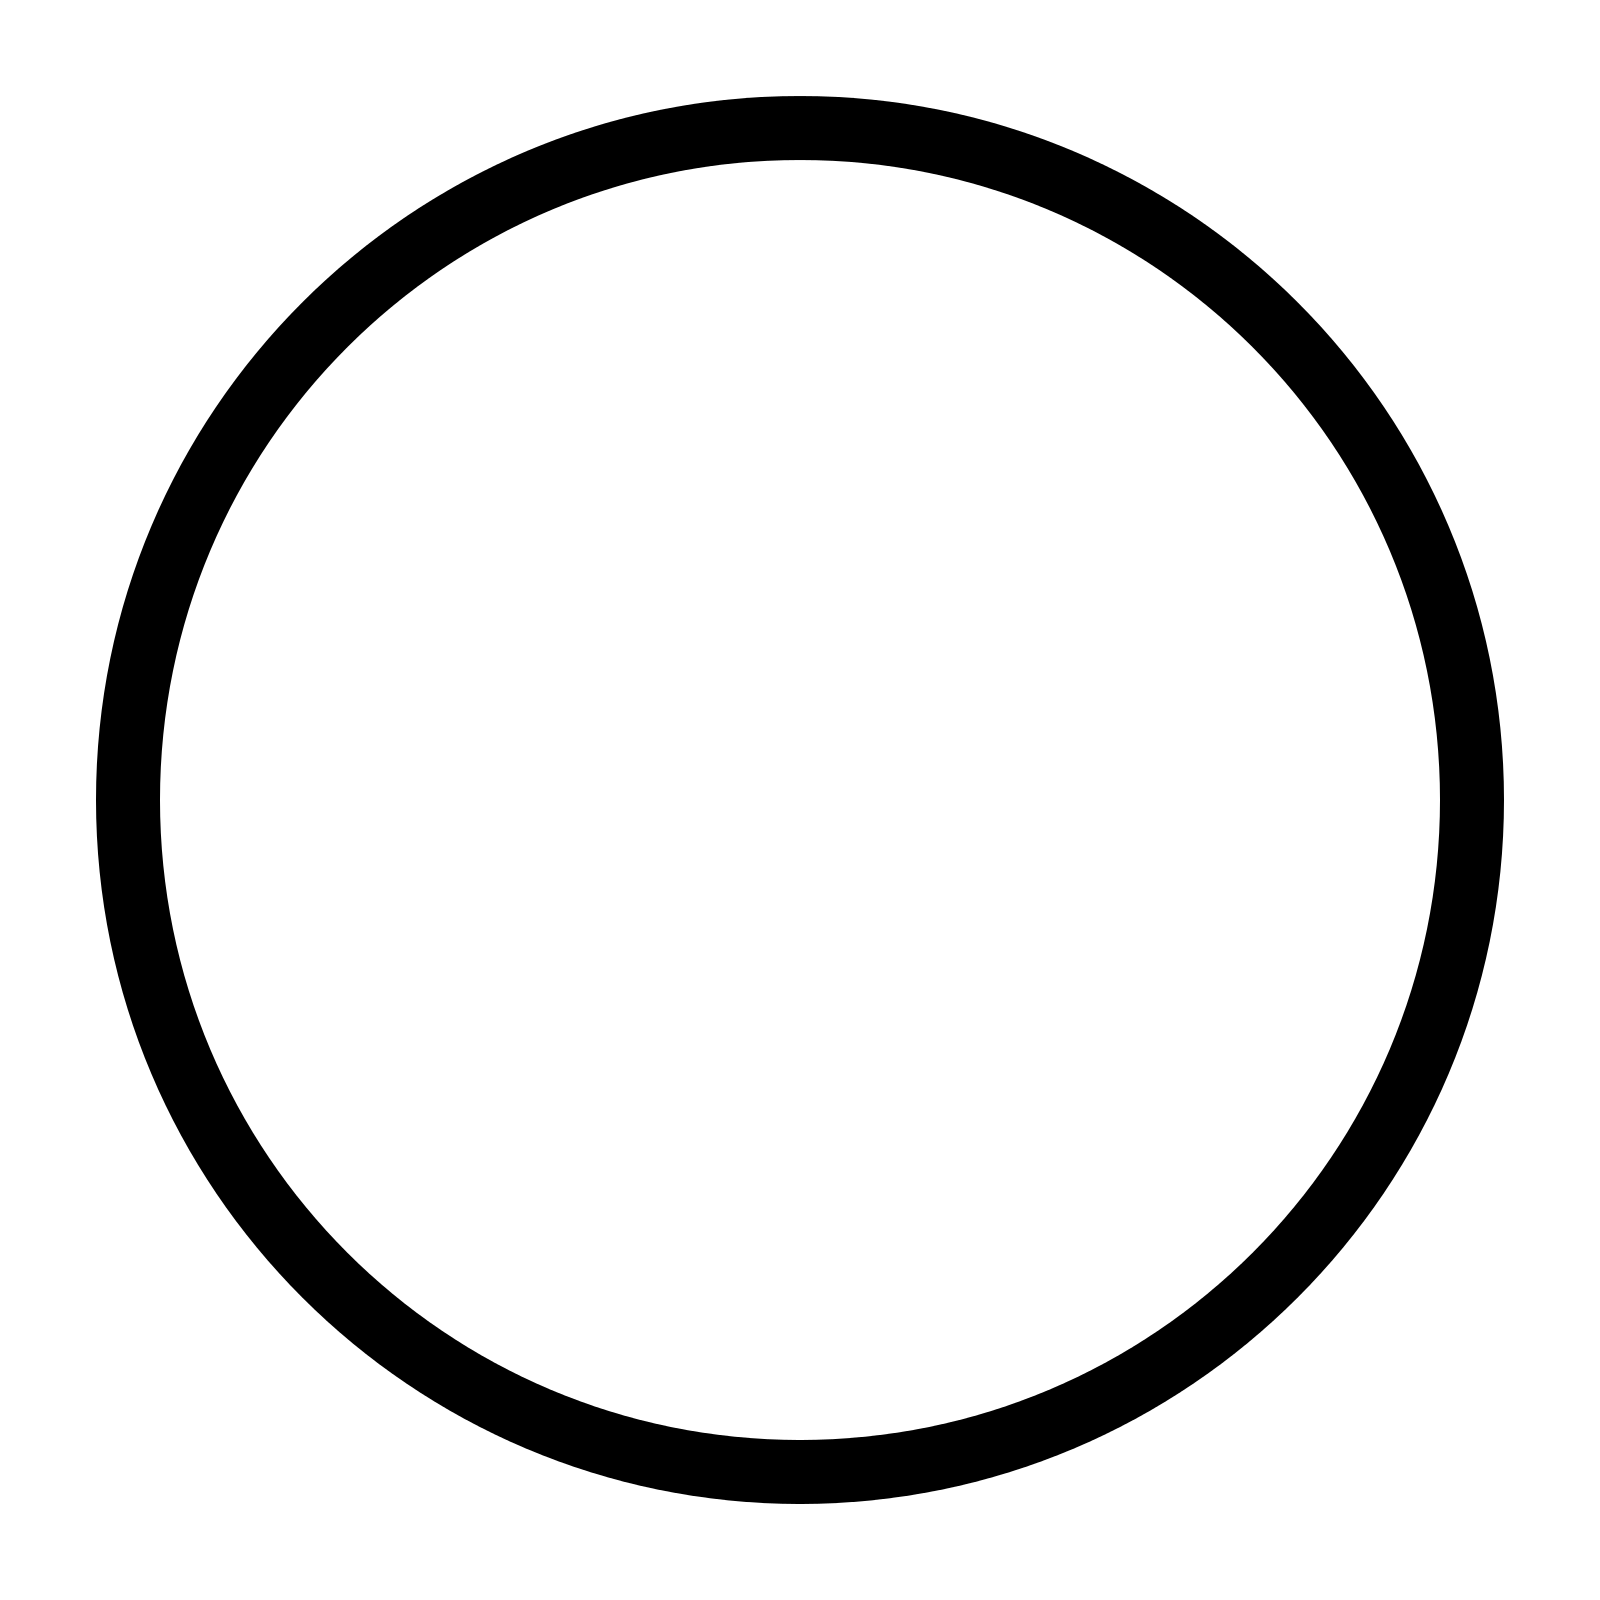
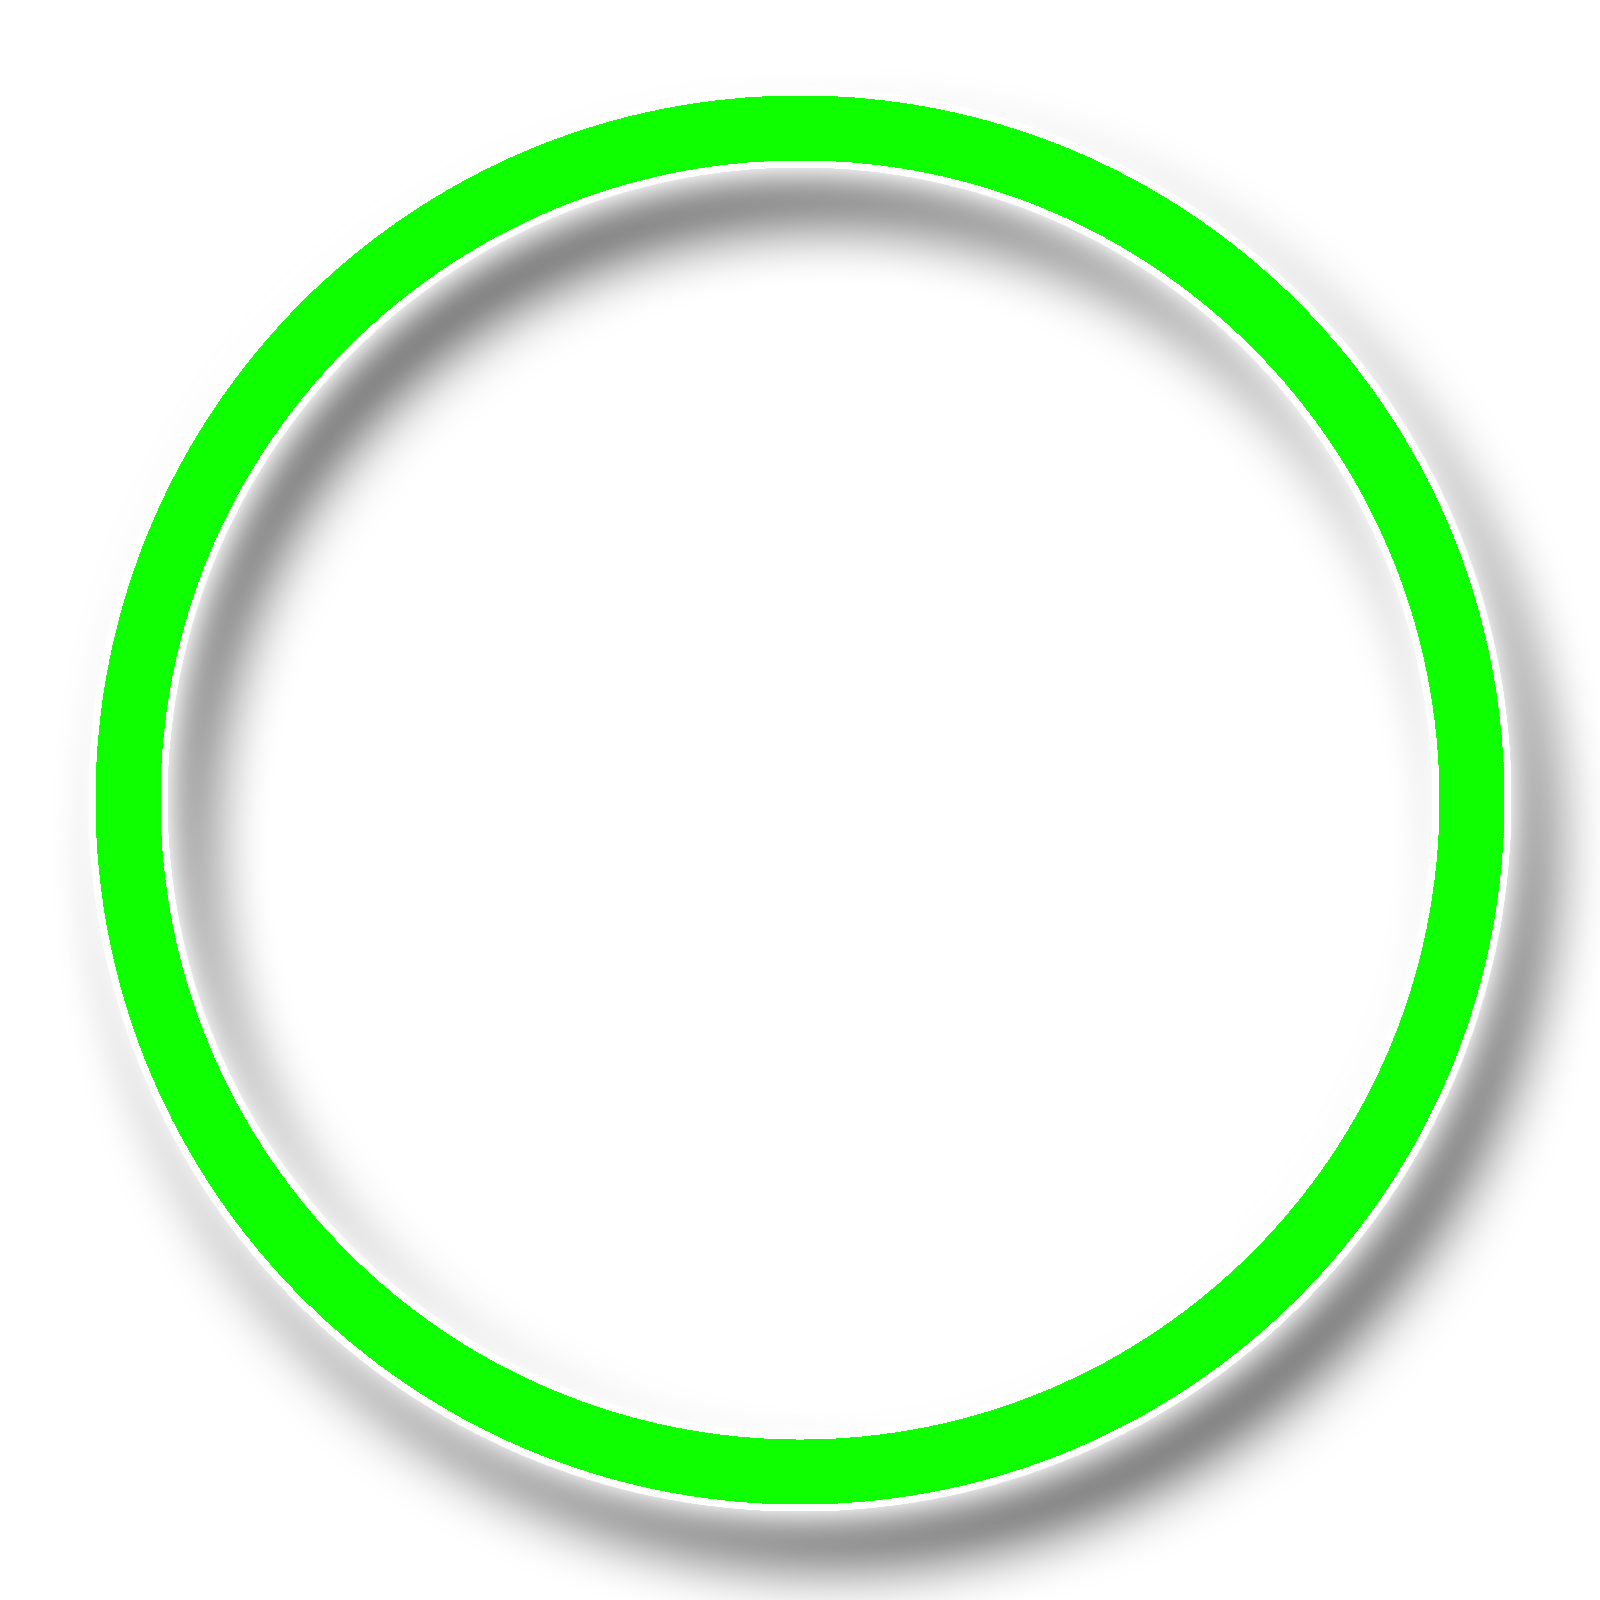
Added animations and better visuals

Changed region(s): [[0.0625, 0.0625, 1.0, 1.0]]

diff --git a/flutter_application_1/lib/differences_game.dart b/flutter_application_1/lib/differences_game.dart
@@ -3,23 +3,35 @@ import 'dart:ui';
 import 'package:flame/components.dart';
 import 'package:flame/events.dart';
 import 'package:flame/game.dart';
+import 'package:flutter_application_1/heart.dart';
+import 'package:flutter_application_1/vignette_overlay.dart';
 import 'constants.dart';
 import 'overlay_circle.dart';
 
 class DifferencesGame extends FlameGame with TapDetector {
+  //images
   late SpriteComponent topImage;
   late SpriteComponent bottomImage;
+
+  late VignetteOverlay vignetteOverlay;
+
+  //difference areas
   List<Rect> differenceAreas = [];
-  List<SpriteComponent> circleOverlaysTop = []; // first image
-  List<SpriteComponent> circleOverlaysBottom = []; //second image
+  List<OverlayCircle> circleOverlaysTop = []; // first image
+  List<OverlayCircle> circleOverlaysBottom = []; //second image
   int remainingDifferences = 0;
-  int lives = 3;
+
+  // lives
+  int lives = startingLives;
+  List<Heart> hearts = [];
 
   @override
   Future<void> onLoad() async {
     final spriteTop = await Sprite.load(image1Path);
     final spriteBottom = await Sprite.load(image2Path);
     final circleSprite = await Sprite.load(circleImagePath);
+    final vignette = await Sprite.load(vignetteImagePath);
+    final heartSprite = await Sprite.load(heartImagePath);
 
     final screenWidth = size.x;
     final screenHeight = size.y;
@@ -30,6 +42,12 @@ class DifferencesGame extends FlameGame with TapDetector {
     final double totalHeight = (imageHeight * 2) + size.x * spaceBetweenImages;
 
     final double startingY = (screenHeight - totalHeight) / 2;
+
+    vignetteOverlay = VignetteOverlay(
+      vignette,
+      Vector2.zero(),
+      size,
+    );
 
     topImage = SpriteComponent(
       sprite: spriteTop,
@@ -47,26 +65,13 @@ class DifferencesGame extends FlameGame with TapDetector {
       size: Vector2(imageWidth, imageHeight),
     );
 
+    add(vignetteOverlay);
     add(topImage);
     add(bottomImage);
 
     initDifferenceAreas(size.x, imageHeight);
     addCircleOverlays(circleSprite, imageHeight, startingY);
-  }
-
-  @override
-  bool onTapDown(TapDownInfo info) {
-    final tapPos = info.eventPosition.widget;
-
-    for (int i = 0; i < circleOverlaysTop.length; i++) {
-      if (circleOverlaysTop[i].toRect().contains(tapPos.toOffset()) ||
-          circleOverlaysBottom[i].toRect().contains(tapPos.toOffset())) {
-        circleOverlaysTop[i].opacity = 1.0;
-        circleOverlaysBottom[i].opacity = 1.0;
-        break;
-      }
-    }
-    return true;
+    addHearts(heartSprite);
   }
 
   void initDifferenceAreas(double imageWidth, double imageHeight) {
@@ -79,20 +84,41 @@ class DifferencesGame extends FlameGame with TapDetector {
     remainingDifferences = differenceAreas.length;
   }
 
+  void addHearts(Sprite heartSprite) {
+    for (int i = 0; i < startingLives; i++) {
+      final heart = Heart(
+        heartSprite,
+        Vector2((size.x * heartsRatioToScreenWidth),
+            (size.x * heartsRatioToScreenWidth)),
+        Vector2(
+            i *
+                    (size.x * heartsRatioToScreenWidth +
+                        additionalPixelOffsetHearts) +
+                size.x * ratioOffsetHeartsScreenWidth,
+            size.y *
+                ratioOffsetHeartsScreenHeight), //equation is the gap between each heart
+      );
+
+      heart.setColor(const Color(0xFFFF0000)); // Initial color set to red
+      hearts.add(heart);
+      add(heart);
+    }
+  }
+
   void addCircleOverlays(
       Sprite circleSprite, double imageHeight, double startingY) {
     for (var area in differenceAreas) {
       final circleTop = OverlayCircle(
         circleSprite,
         Vector2(area.left, area.top + startingY),
-        Vector2(min(area.width, area.height), min(area.width, area.height)),
+        Vector2(max(area.width, area.height), max(area.width, area.height)),
       );
 
       final circleBottom = OverlayCircle(
         circleSprite,
         Vector2(area.left,
             area.top + imageHeight + startingY + size.x * spaceBetweenImages),
-        Vector2(min(area.width, area.height), min(area.width, area.height)),
+        Vector2(max(area.width, area.height), max(area.width, area.height)),
       );
 
       circleTop.opacity = 0;
@@ -106,7 +132,66 @@ class DifferencesGame extends FlameGame with TapDetector {
     }
   }
 
+  @override
+  bool onTapDown(TapDownInfo info) {
+    final tapPos = info.eventPosition.widget;
+
+    bool foundDifference = false;
+
+    for (int i = 0; i < circleOverlaysTop.length; i++) {
+      if (circleOverlaysTop[i].toRect().contains(tapPos.toOffset()) ||
+          circleOverlaysBottom[i].toRect().contains(tapPos.toOffset())) {
+        circleOverlaysTop[i].opacity = 1.0;
+        circleOverlaysBottom[i].opacity = 1.0;
+
+        circleOverlaysTop[i].scaleUp();
+        circleOverlaysBottom[i].scaleUp();
+
+        foundDifference = true;
+        break;
+      }
+    }
+
+    if (foundDifference) {
+    } else {
+      onWrongTap();
+    }
+
+    return true;
+  }
+
   void onDifferenceSpotted(Rect spottedArea) {}
 
-  void onWrongTap() {}
+  void onWrongTap() {
+    if (lives > 0) {
+      lives--;
+      updateHearts();
+    }
+
+    if (lives <= 0) {
+      print("Game Over");
+      // Implement your game-over logic here
+    }
+  }
+
+  void updateHearts() {
+    if (lives >= 0 && lives < hearts.length) {
+      hearts[lives].darken();
+    }
+  }
+
+  @override
+  void render(Canvas canvas) {
+    // Draw background
+    canvas.drawRect(
+      Rect.fromPoints(
+        const Offset(0, 0),
+        Offset(size.x, size.y),
+      ),
+      Paint()..color = backgroundColor, // Set your desired color here
+    );
+
+    // Don't forget to call super.render()
+    super.render(canvas);
+  }
 }

diff --git a/flutter_application_1/lib/heart.dart b/flutter_application_1/lib/heart.dart
@@ -1,0 +1,44 @@
+import 'dart:math';
+import 'dart:ui';
+
+import 'package:flame/components.dart';
+import 'package:flame/effects.dart';
+
+class Heart extends SpriteComponent {
+  Heart(Sprite sprite, Vector2 size, Vector2 position)
+      : super(
+            sprite: sprite,
+            position: position,
+            size: size,
+            anchor: Anchor.center);
+
+  void darken() {
+    SequenceEffect scaleEffect = SequenceEffect([
+      ScaleEffect.to(Vector2.all(1.1), EffectController(duration: 0.1)),
+      ScaleEffect.to(Vector2.all(1), EffectController(duration: 0.1))
+    ]);
+    SequenceEffect colorEffect = SequenceEffect([
+      ColorEffect(
+        const Color.fromARGB(255, 129, 0, 0),
+        const Offset(0.0, 1),
+        EffectController(duration: 0.1),
+      ),
+      ColorEffect(
+        const Color.fromARGB(255, 114, 114, 114),
+        const Offset(0.0, 1),
+        EffectController(duration: 0.1),
+      )
+    ]);
+
+    SequenceEffect rotateEffect = SequenceEffect([
+      RotateEffect.to(7 * pi / 180, EffectController(duration: 0.05)),
+      RotateEffect.to(-4 * pi / 180, EffectController(duration: 0.05)),
+      RotateEffect.to(2 * pi / 180, EffectController(duration: 0.05)),
+      RotateEffect.to(0, EffectController(duration: 0.05))
+    ]);
+
+    add(scaleEffect);
+    add(colorEffect);
+    add(rotateEffect);
+  }
+}

diff --git a/flutter_application_1/lib/overlay_circle.dart b/flutter_application_1/lib/overlay_circle.dart
@@ -1,6 +1,20 @@
 import 'package:flame/components.dart';
+import 'package:flame/effects.dart';
 
 class OverlayCircle extends SpriteComponent {
   OverlayCircle(Sprite sprite, Vector2 position, Vector2 size)
-      : super(sprite: sprite, position: position, size: size);
+      : super(
+            sprite: sprite,
+            position: position,
+            size: size,
+            anchor: Anchor.center);
+
+  void scaleUp() {
+    SequenceEffect effect = SequenceEffect([
+      ScaleEffect.to(Vector2.all(0.7), EffectController(duration: 0.01)),
+      ScaleEffect.to(Vector2.all(1.1), EffectController(duration: 0.1)),
+      ScaleEffect.to(Vector2.all(1), EffectController(duration: 0.1))
+    ]);
+    add(effect);
+  }
 }

diff --git a/flutter_application_1/lib/constants.dart b/flutter_application_1/lib/constants.dart
@@ -1,5 +1,15 @@
+import 'dart:ui';
+
 const String image1Path = 'vintage_car_in_woods_1.png';
 const String image2Path = 'vintage_car_in_woods_2.png';
 const String circleImagePath = 'circle.png';
+const String heartImagePath = 'heart.png';
+const String vignetteImagePath = 'vignette_overlay.png';
 const double aspectRatio = 1.5;
 const double spaceBetweenImages = 20 / 100; // % of screen height
+const int startingLives = 3;
+const double heartsRatioToScreenWidth = 0.08;
+const int additionalPixelOffsetHearts = 10;
+const double ratioOffsetHeartsScreenWidth = 0.06;
+const double ratioOffsetHeartsScreenHeight = 0.04;
+const Color backgroundColor = Color.fromARGB(255, 61, 61, 61);

diff --git a/flutter_application_1/lib/main.dart b/flutter_application_1/lib/main.dart
@@ -1,8 +1,15 @@
 import 'package:flame/game.dart';
+import 'package:flame/flame.dart';
+import 'package:flutter/foundation.dart';
 import 'package:flutter/widgets.dart';
 import 'package:flutter_application_1/differences_game.dart';
 
 void main() {
+  WidgetsFlutterBinding.ensureInitialized();
+
+  Flame.device.fullScreen();
+  Flame.device.setPortrait();
+
   final game = DifferencesGame();
-  runApp(GameWidget(game: game));
+  runApp(GameWidget(game: kDebugMode ? game : DifferencesGame()));
 }

diff --git a/flutter_application_1/lib/vignette_overlay.dart b/flutter_application_1/lib/vignette_overlay.dart
@@ -1,0 +1,10 @@
+import 'package:flame/components.dart';
+
+class VignetteOverlay extends SpriteComponent {
+  VignetteOverlay(Sprite sprite, Vector2 position, Vector2 size)
+      : super(
+          sprite: sprite,
+          position: position,
+          size: size,
+        );
+}
